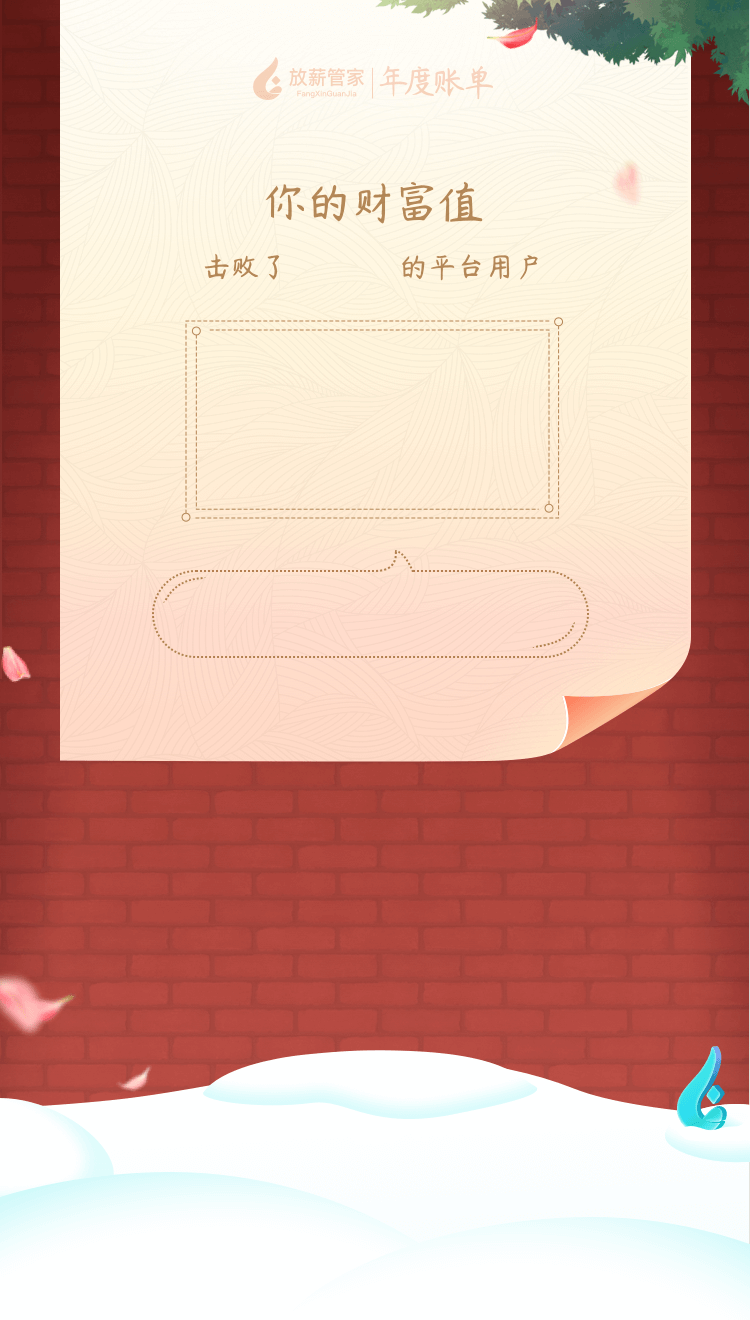
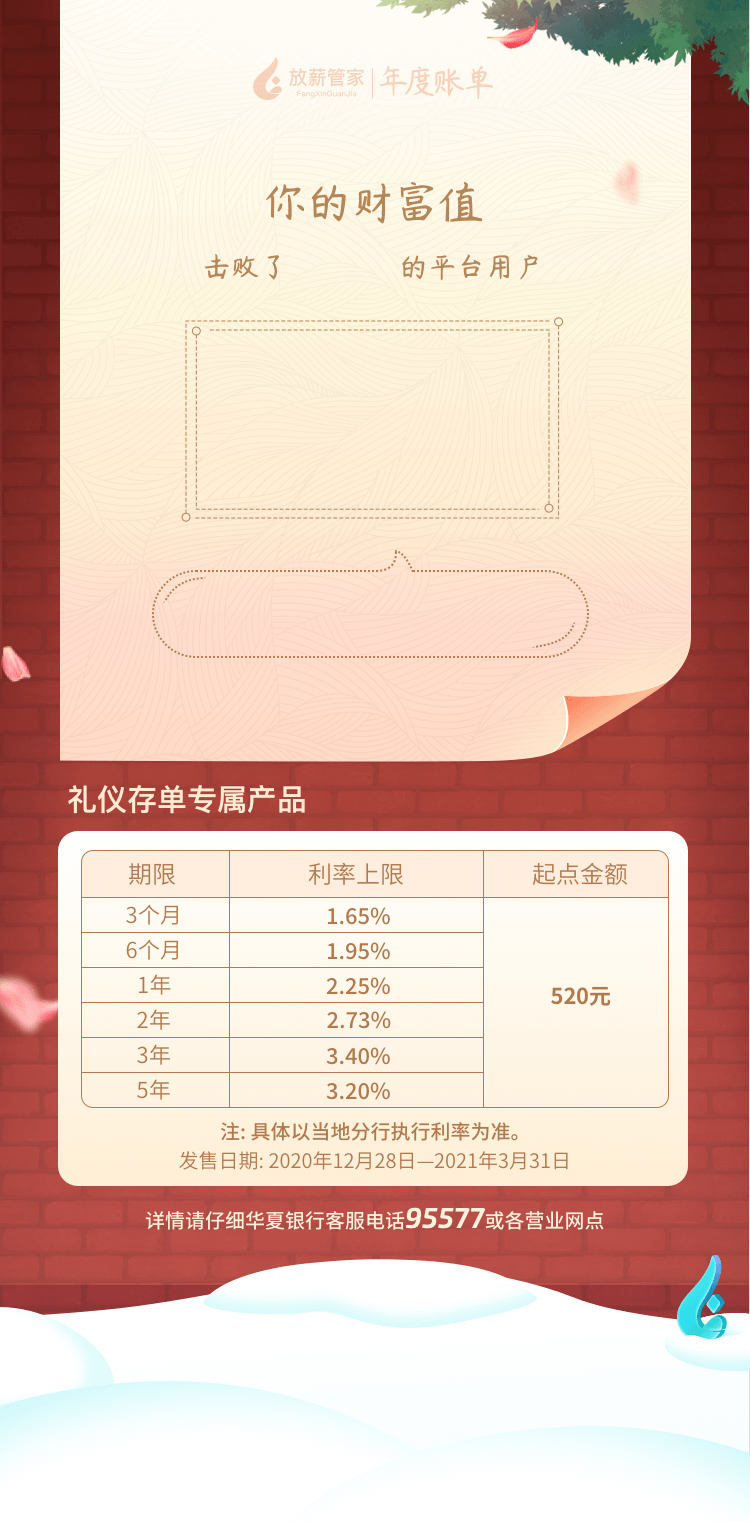
年度账单

diff --git a/src/views/yearBill/index.vue b/src/views/yearBill/index.vue
@@ -118,6 +118,14 @@
         </div>
       </van-swipe-item>
       <van-swipe-item>
+        <div class="p9 wrap">
+          <img :src="imgPage[9]" alt="">
+          <div class="next">
+            <img src="../../assets/img/yearBill/next.png" alt=""><span>向上滑动翻页</span>
+          </div>
+        </div>
+      </van-swipe-item>
+      <van-swipe-item>
         <div class="p6 wrap">
           <img :src="imgPage[6]" alt="">
           <!--<img v-lazy="imgPage.p6" alt="">-->
@@ -127,18 +135,10 @@
             <img :src="percent.img" alt="">
           </div>
           <div class="p6-d3 font3">{{percent.desc}}</div>
-          <div class="p6-d4">
+          <!--<div class="p6-d4">
             <div class="desc">产品推荐</div>
             <div class="recommend-box"></div>
-          </div>
-          <div class="next">
-            <img src="../../assets/img/yearBill/next.png" alt=""><span>向上滑动翻页</span>
-          </div>
-        </div>
-      </van-swipe-item>
-      <van-swipe-item>
-        <div class="p9 wrap">
-          <img :src="imgPage[9]" alt="">
+          </div>-->
         </div>
       </van-swipe-item>
     </van-swipe>

diff --git a/src/views/payroll/home.vue b/src/views/payroll/home.vue
@@ -67,6 +67,7 @@
     <home-manager-dialog ref="home-manager-dialog" @getIsReadManager="isReadManager = true"
       @getIsReadManagerCurrent="isReadManagerCurrent = true" :manager-info="managerInfo"></home-manager-dialog>
     <fxgj-mini-program-popup ref="fxgj-mini-program-popup"></fxgj-mini-program-popup>
+    <!--<year-bill-popup></year-bill-popup>-->
   </div>
 </template>
 
@@ -79,6 +80,7 @@ import fxgjMiniProgramPopup from 'components/fxgjMiniProgramPopup'
 import homeGameLink from './homeGameLink'
 import homeZxMenu from './homeZxMenu'
 import homeManagerDialog from './homeManagerDialog'
+import yearBillPopup from '../yearBill/yearBillPopup'
 import helper from 'utils/helper'
 import decryptInfo from 'utils/decryptInfo'
 import sysConfig from 'utils/constant'
@@ -88,6 +90,7 @@ const wxapi = new Wxapi() */
 export default {
   data () {
     return {
+      show: true,
       entList: [],
       currentEntId: '',
       managerInfo: {
@@ -206,7 +209,8 @@ export default {
     fxgjMiniProgramPopup,
     homeGameLink,
     homeZxMenu,
-    homeManagerDialog
+    homeManagerDialog,
+    yearBillPopup
   }
 }
 </script>

diff --git a/src/views/yearBill/yearBillPopup.vue b/src/views/yearBill/yearBillPopup.vue
@@ -1,0 +1,36 @@
+<template>
+  <div class="year-bill-popup">
+    <van-popup v-model="showYearBillPopup" closeable @close="showYearBillPopup = false">
+      <div class="wrap">
+        <img @click="toPage" src="../../assets/img/yearBill/popup.png" alt="">
+        <div class="not-notice" @click="notNotice">不再提醒</div>
+      </div>
+    </van-popup>
+  </div>
+</template>
+
+<script type="text/ecmascript-6">
+  import storage from 'utils/storage'
+  export default {
+    data () {
+      return {
+        showYearBillPopup: storage.getLocal('showYearBillPopup', true)
+      }
+    },
+    created () {
+
+    },
+    mounted () {
+    },
+    methods: {
+      toPage() {
+        storage.setLocal('showYearBillPopup', false)
+        this.$router.push({name: 'yearBill'})
+      },
+      notNotice() {
+        storage.setLocal('showYearBillPopup', false)
+        this.showYearBillPopup = false
+      }
+    }
+  }
+</script>

diff --git a/src/assets/scss/pages/yearBill.scss b/src/assets/scss/pages/yearBill.scss
@@ -296,4 +296,22 @@
   }
 
 }
+.year-bill-popup{
+  .van-popup{
+    background: transparent;
+  }
+  .wrap{
+    text-align: center;
+    width: 100%;
+    height: 100%;
+    img{
+      @include area(727px, 770px);
+    }
+    .not-notice{
+      font-size: 24px;
+      color: #FFFFFF;
+    }
+  }
+
+}
 

diff --git a/README.md b/README.md
@@ -103,3 +103,5 @@ npm run build
 > 针对入口信息加密处理
 ### 2020-09-07
 > 工资条改版
+### 2021-01-22
+> 年度账单
